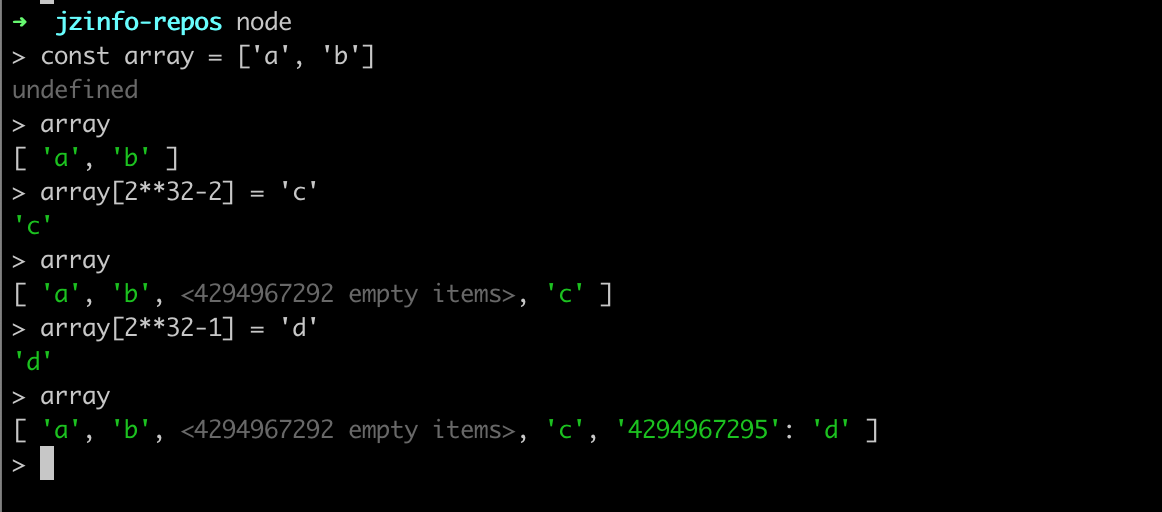
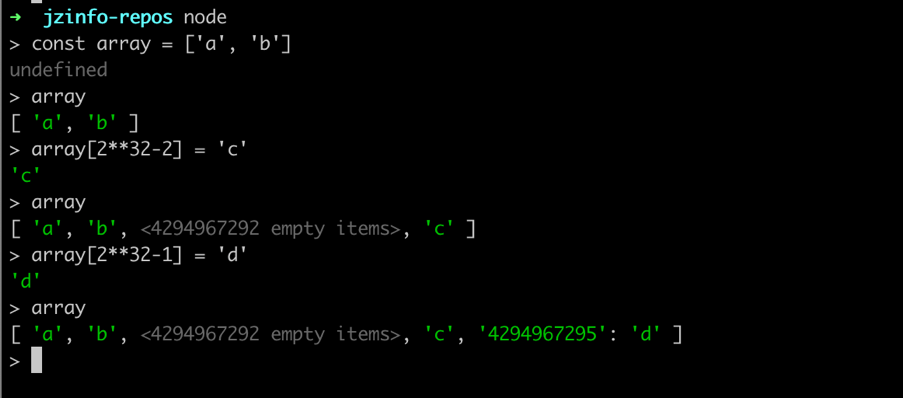
添加对象模型示例图

diff --git a/README.md b/README.md
@@ -71,14 +71,14 @@ Source Position Table (size = 0)
 
 ## JavaScript的对象模型(Object Modal)
 根据 `ECMAScript` 规范的定义，`JavaScript`中的对象定义为一个字典，通过字符串的属性名引用`Property Attribute`对象，如下图所示：
-![object-modal](assets/object-model.svg)
+![object-modal](./assets/object-model.png)
 
 > 要注意的点是，作为字典，对象内部只存储属性名，这些属性名映射到对应的`Property Arrtibutes`上，我们的属性值就存储在这些`Property Arrtibute`上面。<br/>
 > 我们可以通过 `Object.getOwnPropertyDescriptor` 这个api访问到对应的`Property Attribute`对象
 
 数组其实是一类特殊的对象，只不过数组会对索引进行特殊的处理。
-![array-modal](assets/array-1.svg)
+![array-modal](./assets/array-1.png)
 
 > 注意：数组的索引有一个最大限额，为`2**32 - 1`个，也就是说，数组的索引范围为`0 ~ 2**32-2`，如果超过这个范围，则多出来的索引退化为普通对象的存储模式。
 
-![array-model](assets/array-2.png)
+![array-model](./assets/array-2.png)
